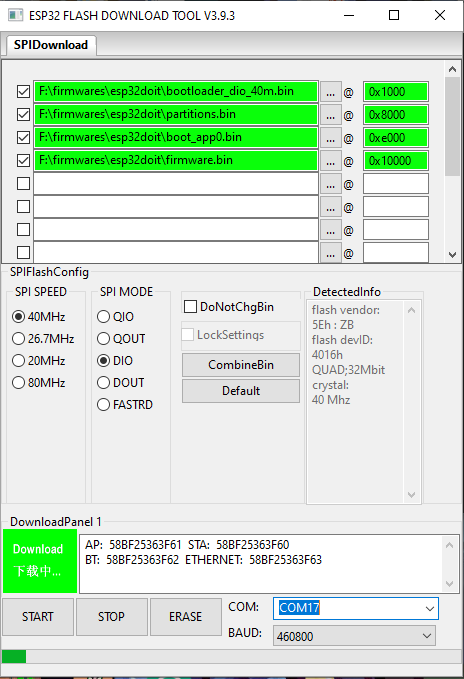
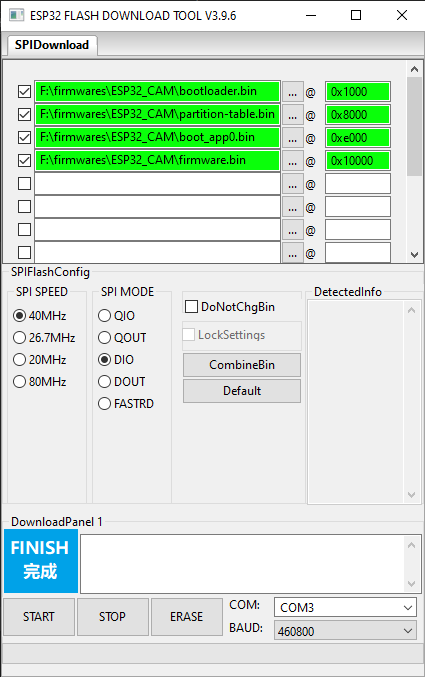
draft

Changed region(s): [[0.0, 0.0, 1.0, 1.0], [0.8259, 0.0, 0.8565, 0.031]]

diff --git a/README.md b/README.md
@@ -42,15 +42,15 @@ With MataVision, anyone can unlock the potential of computer vision in their pro
 
 # Firmware Installation
 
-Go to the [firmware folder](https://github.com/tensorfactory/MataVision/tree/main/firmwares) of the ESP board to download the required firmware package. It consists of 4 files (bootloader_xxx_xxm.bin, partitions.bin, boot_app0.bin, and firmware.bin). Please choose the right setting according to the ESP chip type for the flashing process.
+Go to the [firmware folder](https://github.com/tensorfactory/MataVision/tree/main/firmwares) of the ESP board to download the required firmware package. It consists of 4 files (bootloader.bin, partition-table.bin, boot_app0.bin, and firmware.bin). Please choose the right setting according to the ESP chip type for the flashing process.
 
 
 <br/>
 
 | Filename               | Offset address (ESP32) | Offset address (ESP32S3) |
 | ---------------------- |:----------------------:|:------------------------:|
-| bootloader_xxx_xxm.bin | 0x1000                 | 0x0000                   |
-| partitions.bin         | 0x8000                 | 0x8000                   |
+| bootloader.bin         | 0x1000                 | 0x0000                   |
+| partition-table.bin    | 0x8000                 | 0x8000                   |
 | boot_app0.bin          | 0xe000                 | 0xe000                   |
 | firmware.bin           | 0x10000                | 0x10000                  |
 
@@ -68,7 +68,7 @@ Go to the [firmware folder](https://github.com/tensorfactory/MataVision/tree/mai
 
 We can use the "Flash Download Tools" from [Espressif](https://www.espressif.com/en/support/download/other-tools) to flash firmware bin files to an ESP device. Please follow the below steps for firmware flashing.
 
-1. Connect an ESP device to a computer via USB. The connected port number can be found using Windows' "Device Manager". In this example, the ESP device was connected to COM17. (Note: For some ESP devices, we need to hold the BOOT button when powering ON to start in BOOT mode for firmware flashing.)
+1. Connect an ESP device to a computer via USB. The connected port number can be found using Windows' "Device Manager". In this example, the ESP device was connected to COM3. (Note: For some ESP devices, we need to hold the BOOT button when powering ON to start in BOOT mode for firmware flashing.)
    
    <img title="Device Manager." src="images/device_manager.png" alt="" width="300">
 
